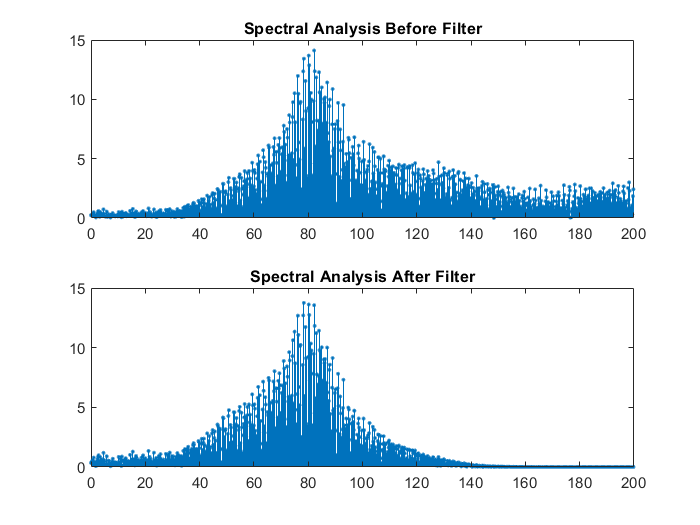
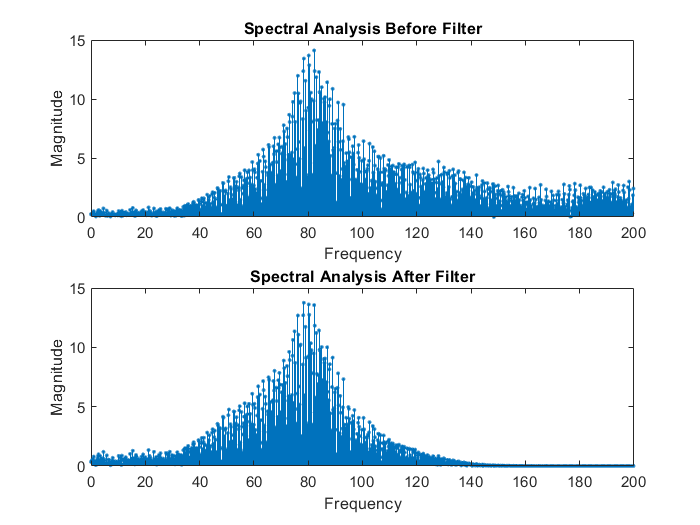
Update Axis Labels.

diff --git a/ML/scripts/kfm.m b/ML/scripts/kfm.m
@@ -20,6 +20,8 @@ subplot(2,1,1);
 stem(f(1:floor(n/2)),amp(1:floor(n/2)), 'Marker', '.');
 ylim([0,15]);
 title('Spectral Analysis Before Filter');
+xlabel('Frequency');
+ylabel('Magnitude');
 
 order = 20;
 Gx_f = tust_lpf_n(Gx, t, 100, order);
@@ -35,6 +37,8 @@ stem(f(1:floor(n/2)),amp(1:floor(n/2)), 'Marker', '.');
 ylim([0,15]);
 
 title('Spectral Analysis After Filter');
+xlabel('Frequency');
+ylabel('Magnitude');
 
 len_data = 50;
 

diff --git a/ML/scripts/power_test.m b/ML/scripts/power_test.m
@@ -8,7 +8,9 @@ Ax = Accel_x - ax_off;
 
 Ax = Ax(1:n);
 
-Ax_P = Power(Ax, 32, 0.1);
+Ax = tust_lpf_n(Ax, t, 100, 20);
+
+Ax_P = Energy(Ax, 32, 0.1);
 
 subplot(2,1,1);
 plot(t, Ax);
